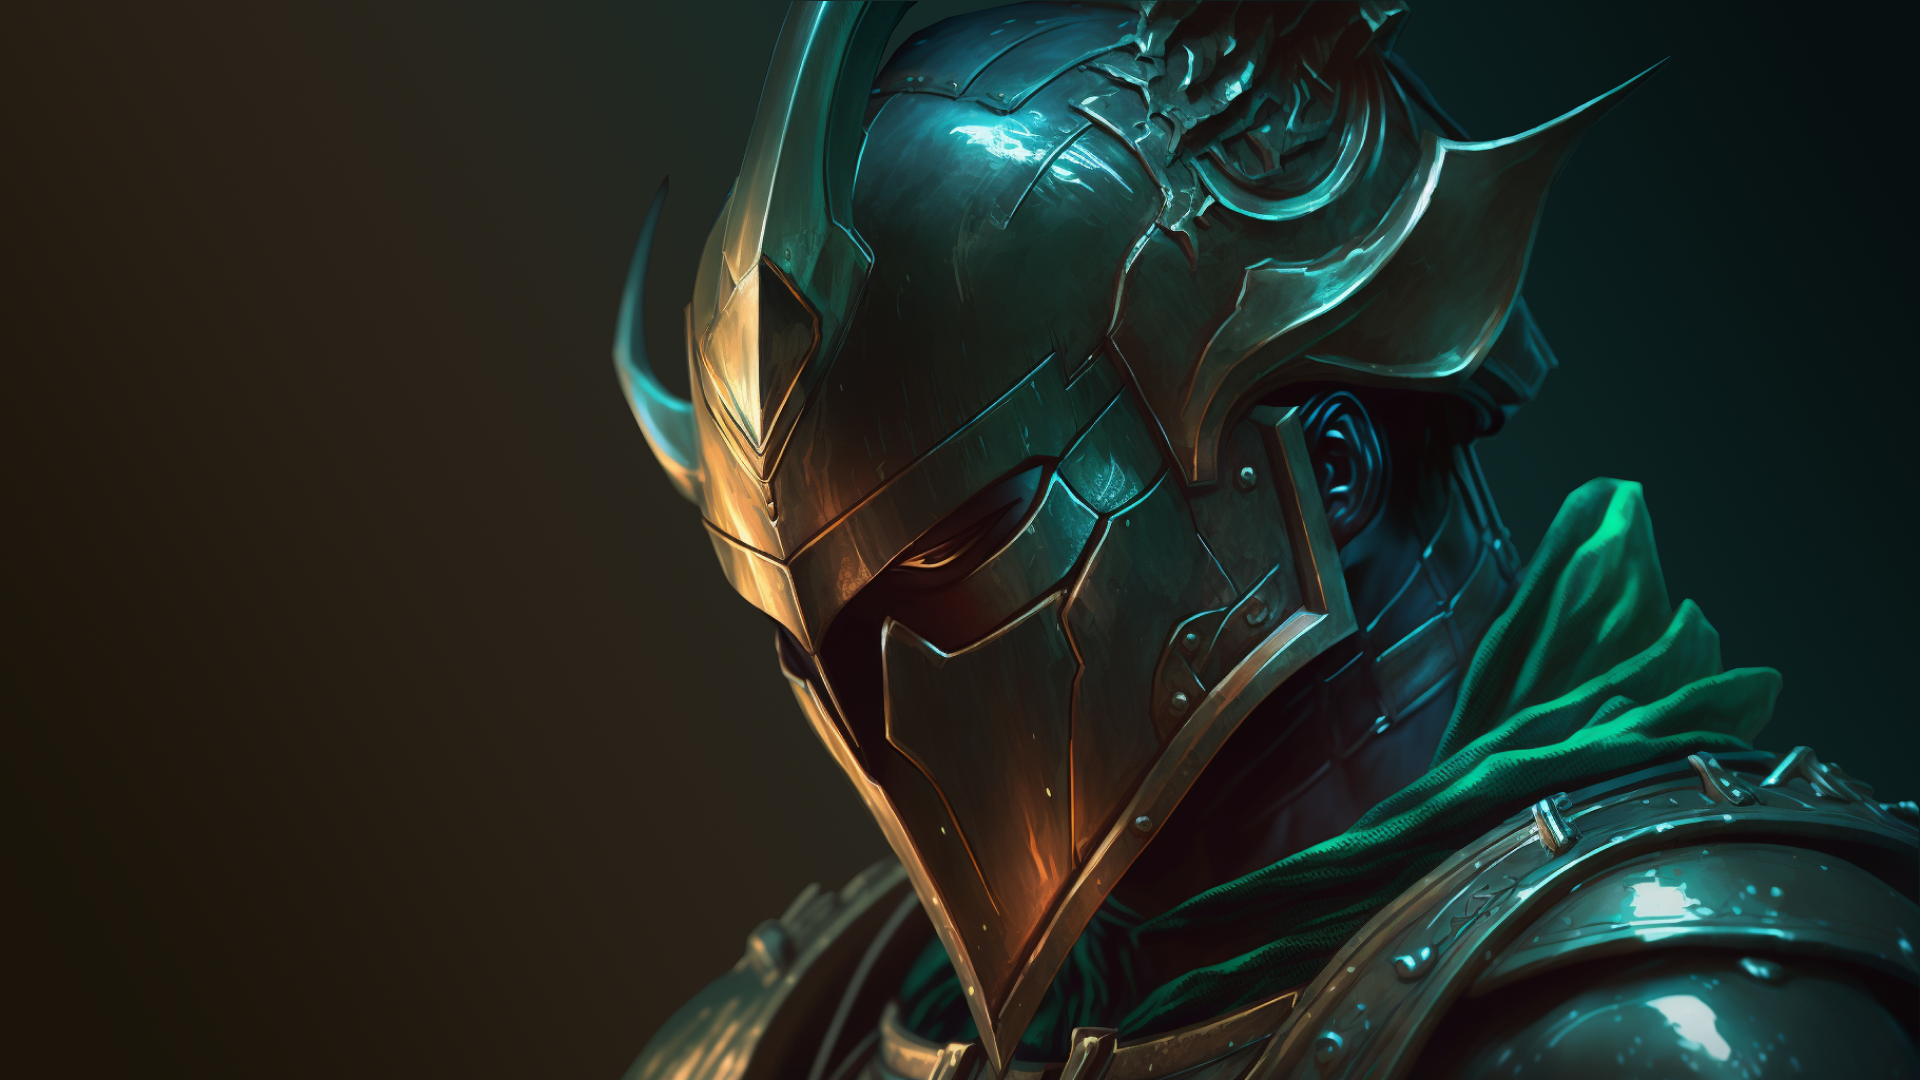
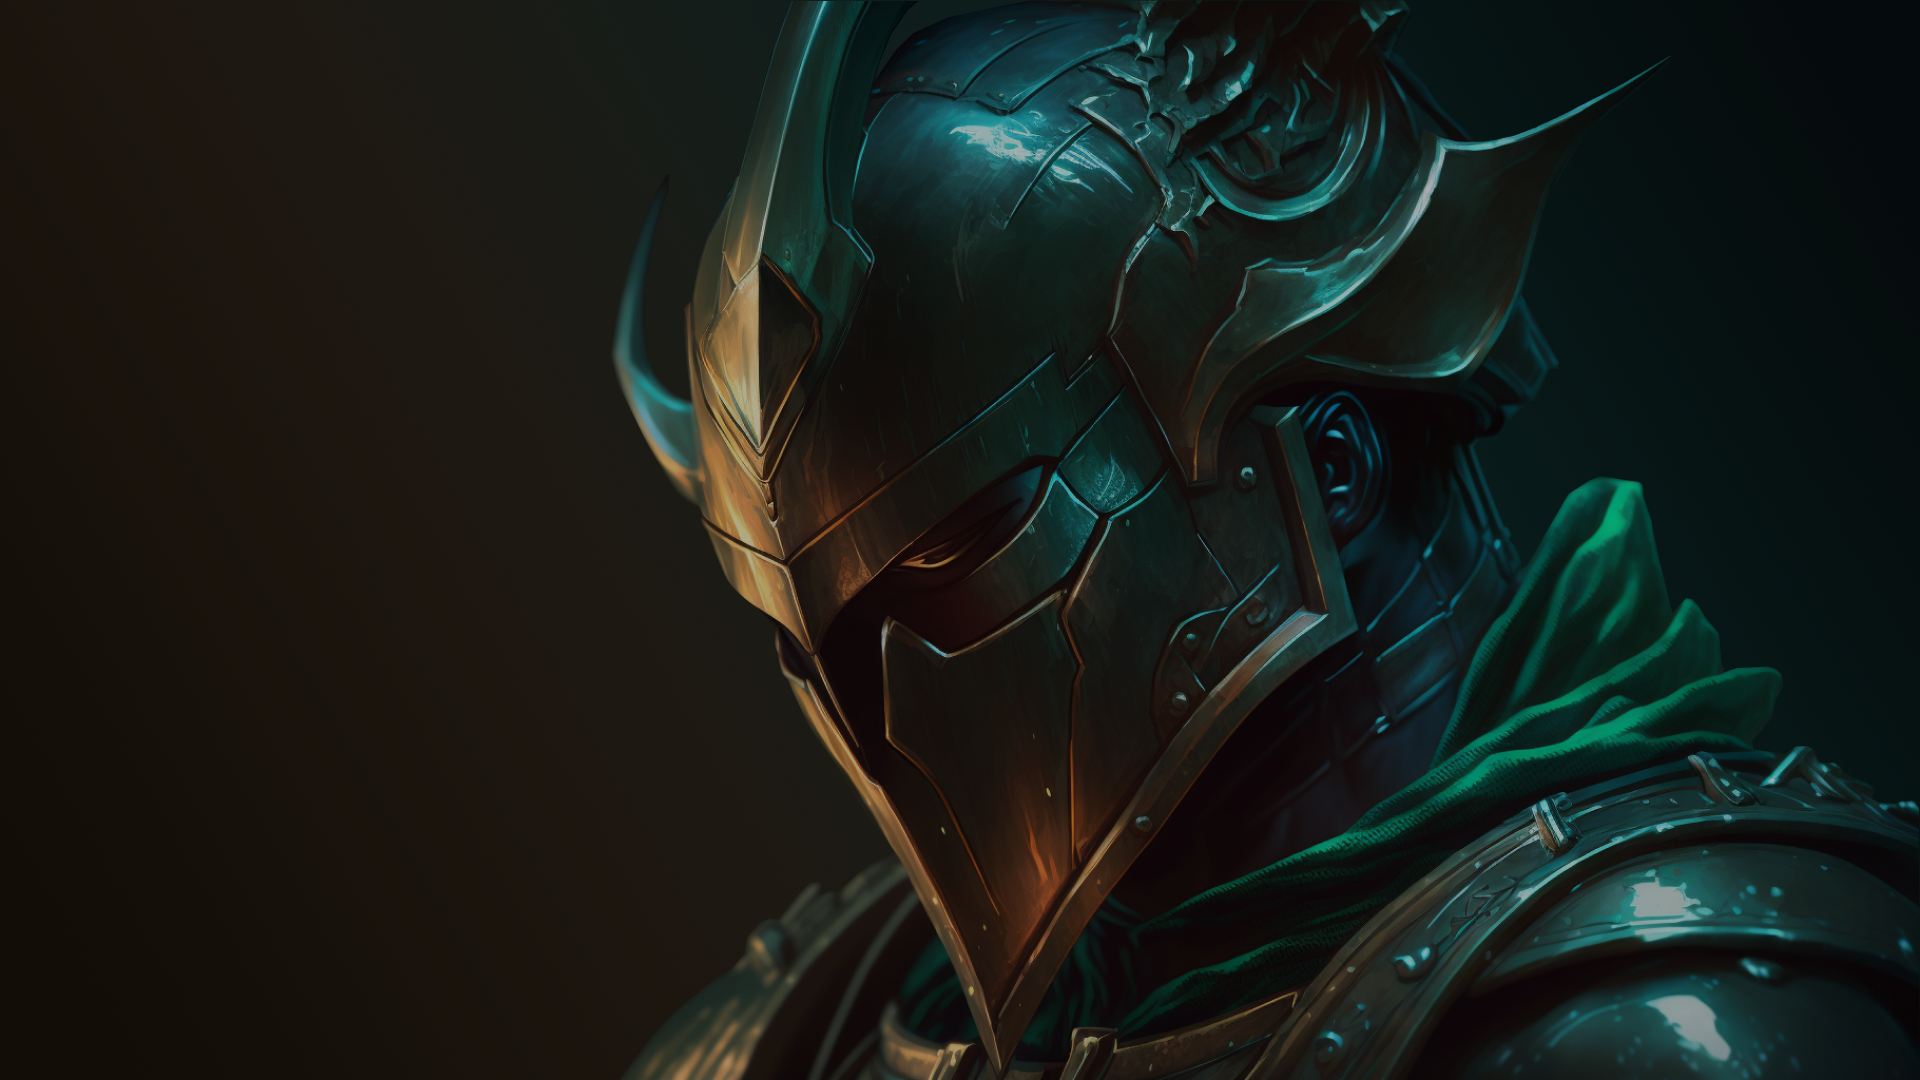
Update bg

diff --git a/src/index.css b/src/index.css
@@ -12,26 +12,11 @@ body {
   padding: 0;
 	min-height: 100vh;
   font-family: 'K2D', sans-serif;
-}
-
-body::after {
-  content: "";
-  position: absolute;
-  inset: 0;
   background-image: url('/assets/images/background-soldier-portrait.png');
   background-size: cover;
   background-repeat: no-repeat;
   background-attachment: fixed;
   background-position: 40% 0;
-  filter: brightness(0.6);
-  z-index: -2;
-  /* box-shadow: inset 0 0 5rem 1rem #040A0A; */
-}
-
-@media (max-width: 600px) {
-  body::after {
-    background-image: url('/assets/images/background-soldier-portrait-small.png');
-  }
 }
 
 #root {
